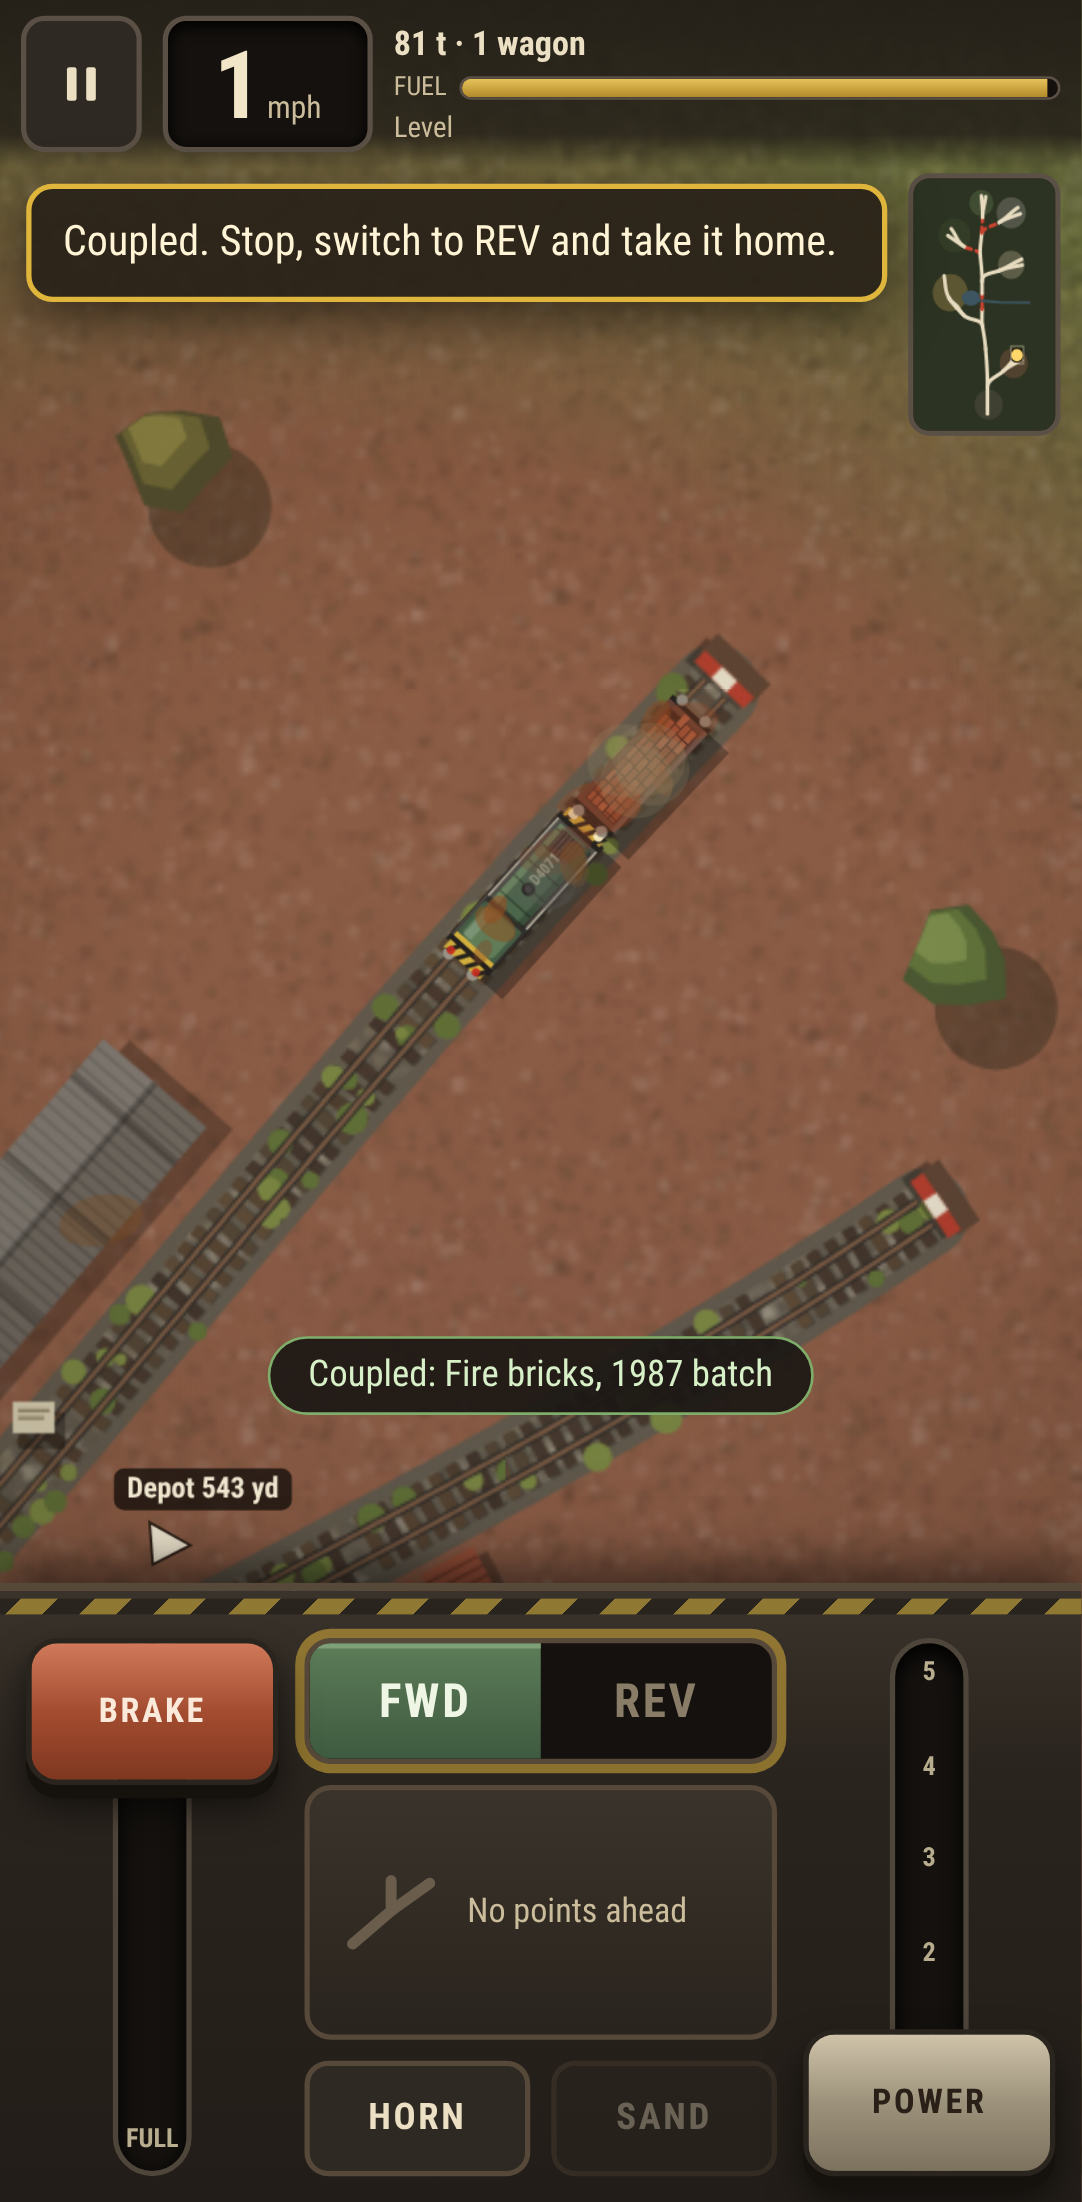
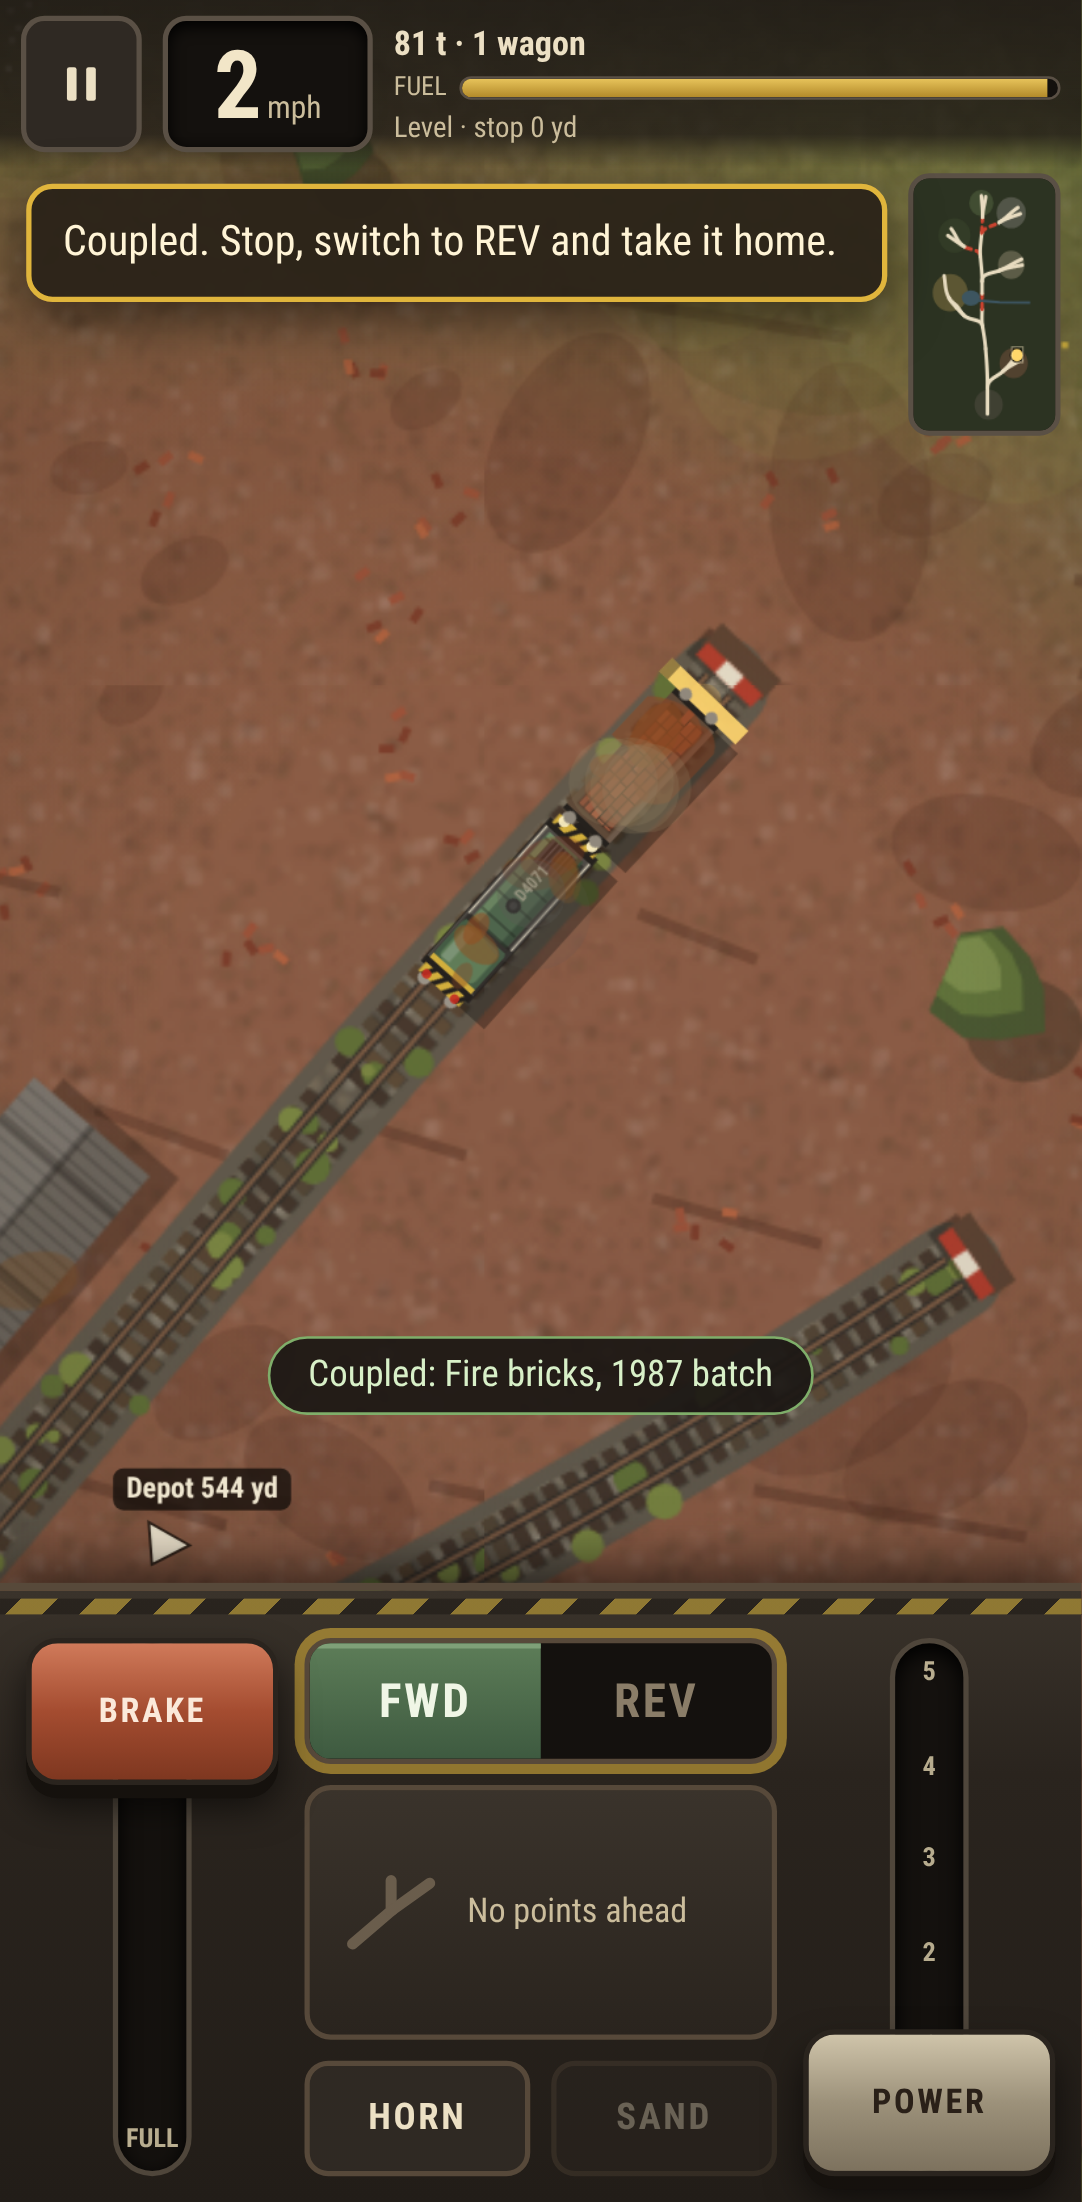
Art: lighter exhaust when labouring, calmer depot ground; driving and bank screenshots; live smoke test

diff --git a/dist/index.html b/dist/index.html
@@ -1018,8 +1018,8 @@ function decals(g,bb,cx,cy){const r=RNG.make(cx*92821+cy*68917+3);
       else if(k<.6){const c=r()<.5?'#e8e0c8':'#e0c040';g.fillStyle=c;for(let j=0;j<7;j++)g.fillRect(x+(r()-.5)*14,y+(r()-.5)*14,1.1,1.1);}
       else if(k<.85){g.strokeStyle='rgba(40,55,25,.5)';g.lineWidth=.8;for(let j=0;j<4;j++){g.beginPath();g.moveTo(x+j*1.5,y);g.lineTo(x+j*1.5+(r()-.5)*3,y-3-r()*3);g.stroke();}}
       else if(!nearTrack(x,y,16)){g.fillStyle='rgba(0,0,0,.25)';g.beginPath();g.arc(x+2,y+2.5,3+sz*3,0,7);g.fill();g.fillStyle=sz<.5?'#4c5e30':'#5a6b36';g.beginPath();g.arc(x,y,3+sz*3,0,7);g.fill();}}
-    else if(ar==='depot'){if(k<.3){g.fillStyle='rgba(15,12,10,.3)';g.beginPath();g.ellipse(x,y,4+sz*12,3+sz*8,r()*3,0,7);g.fill();}
-      else if(k<.5){g.fillStyle='rgba(60,70,75,.55)';g.beginPath();g.ellipse(x,y,5+sz*10,3+sz*6,r()*3,0,7);g.fill();g.fillStyle='rgba(200,210,215,.15)';g.beginPath();g.ellipse(x-2,y-1,2+sz*4,1+sz*2,0,0,7);g.fill();}
+    else if(ar==='depot'){if(k<.2){g.fillStyle='rgba(15,12,10,.22)';g.beginPath();g.ellipse(x,y,3+sz*8,2+sz*5,r()*3,0,7);g.fill();}
+      else if(k<.3){g.fillStyle='rgba(60,70,75,.38)';g.beginPath();g.ellipse(x,y,3+sz*7,2+sz*4,r()*3,0,7);g.fill();g.fillStyle='rgba(200,210,215,.15)';g.beginPath();g.ellipse(x-2,y-1,2+sz*4,1+sz*2,0,0,7);g.fill();}
       else if(k<.8){g.fillStyle=r()<.5?'rgba(25,22,20,.55)':'rgba(110,100,85,.5)';for(let j=0;j<10;j++)g.fillRect(x+(r()-.5)*16,y+(r()-.5)*16,1.2,1.2);}
       else{g.fillStyle='rgba(80,90,40,.45)';g.beginPath();g.arc(x,y,2+sz*4,0,7);g.fill();}}
     else if(ar==='brick'){if(k<.35){g.fillStyle='rgba(70,35,25,.2)';g.beginPath();g.ellipse(x,y,6+sz*18,4+sz*10,r()*3,0,7);g.fill();}
@@ -1172,12 +1172,12 @@ function drawVehicles(t){const S=SIM.S;
       g.restore();}
   }}
 function particles(dt){for(const p of P){if(!p.on)continue;p.life-=dt;if(p.life<=0){p.on=0;continue;}p.x+=p.vx*dt;p.y+=p.vy*dt;const f=p.life/p.max;
-  if(p.type==='smoke'){p.vx*=.985;p.vy*=.985;p.r+=dt*7;g.fillStyle=`rgba(${p.dark?40:90},${p.dark?38:88},${p.dark?36:84},${.42*f})`;g.beginPath();g.arc(p.x,p.y,p.r,0,7);g.fill();}
+  if(p.type==='smoke'){p.vx*=.985;p.vy*=.985;p.r+=dt*9;g.fillStyle=`rgba(${p.dark?40:90},${p.dark?38:88},${p.dark?36:84},${(p.dark?.3:.34)*f})`;g.beginPath();g.arc(p.x,p.y,p.r,0,7);g.fill();}
   else if(p.type==='spark'){g.fillStyle=`rgba(255,${180+Math.random()*70|0},90,${f})`;g.fillRect(p.x,p.y,1.2,1.2);}
   else if(p.type==='dust'){p.r+=dt*12;g.fillStyle=`rgba(150,130,100,${.35*f})`;g.beginPath();g.arc(p.x,p.y,p.r,0,7);g.fill();}
   else if(p.type==='sand'){g.fillStyle=`rgba(210,180,120,${.6*f})`;g.fillRect(p.x,p.y,1.5,1.5);}}}
 function feed(dt){const S=SIM.S;if(!S.train)return;const L=S.loco,v=Math.abs(S.train.v);const fx=Math.cos(L.h)*(L.face===1?-1:1),fy=Math.sin(L.h)*(L.face===1?-1:1);
-  const ex=L.x-fx*(L.len/2-19),ey=L.y-fy*(L.len/2-19);GAME.smokeAcc=(GAME.smokeAcc||0)+dt*(2.5+S.ctl.thr*5+(GAME.puff||0)*40);
+  const ex=L.x-fx*(L.len/2-19),ey=L.y-fy*(L.len/2-19);GAME.smokeAcc=(GAME.smokeAcc||0)+dt*(2+S.ctl.thr*3.4+(GAME.puff||0)*40)*(Math.abs(S.train.v)<4?.6:1);
   while(GAME.smokeAcc>1){GAME.smokeAcc--;const wv=S.train.v;const mvx=-(Math.cos(L.h))*wv*.15,mvy=-(Math.sin(L.h))*wv*.15;const p=emit('smoke',ex,ey,mvx*0+8+Math.random()*6,-6-Math.random()*6+0,1.6+S.ctl.thr*.35,2+S.ctl.thr*.4);P[(pi+P.length-1)%P.length].dark=(GAME.puff||0)>0||S.ctl.thr>=4;}
   if(GAME.puff>0)GAME.puff-=dt;
   if(L.slip>.3){for(let i=0;i<2;i++)emit('spark',L.x+(Math.random()-.5)*L.len*.6,L.y+(Math.random()-.5)*10,(Math.random()-.5)*40,(Math.random()-.5)*40,.25,1);}

diff --git a/js/render.js b/js/render.js
@@ -62,12 +62,12 @@ function drawVehicles(t){const S=SIM.S;
       g.restore();}
   }}
 function particles(dt){for(const p of P){if(!p.on)continue;p.life-=dt;if(p.life<=0){p.on=0;continue;}p.x+=p.vx*dt;p.y+=p.vy*dt;const f=p.life/p.max;
-  if(p.type==='smoke'){p.vx*=.985;p.vy*=.985;p.r+=dt*7;g.fillStyle=`rgba(${p.dark?40:90},${p.dark?38:88},${p.dark?36:84},${.42*f})`;g.beginPath();g.arc(p.x,p.y,p.r,0,7);g.fill();}
+  if(p.type==='smoke'){p.vx*=.985;p.vy*=.985;p.r+=dt*9;g.fillStyle=`rgba(${p.dark?40:90},${p.dark?38:88},${p.dark?36:84},${(p.dark?.3:.34)*f})`;g.beginPath();g.arc(p.x,p.y,p.r,0,7);g.fill();}
   else if(p.type==='spark'){g.fillStyle=`rgba(255,${180+Math.random()*70|0},90,${f})`;g.fillRect(p.x,p.y,1.2,1.2);}
   else if(p.type==='dust'){p.r+=dt*12;g.fillStyle=`rgba(150,130,100,${.35*f})`;g.beginPath();g.arc(p.x,p.y,p.r,0,7);g.fill();}
   else if(p.type==='sand'){g.fillStyle=`rgba(210,180,120,${.6*f})`;g.fillRect(p.x,p.y,1.5,1.5);}}}
 function feed(dt){const S=SIM.S;if(!S.train)return;const L=S.loco,v=Math.abs(S.train.v);const fx=Math.cos(L.h)*(L.face===1?-1:1),fy=Math.sin(L.h)*(L.face===1?-1:1);
-  const ex=L.x-fx*(L.len/2-19),ey=L.y-fy*(L.len/2-19);GAME.smokeAcc=(GAME.smokeAcc||0)+dt*(2.5+S.ctl.thr*5+(GAME.puff||0)*40);
+  const ex=L.x-fx*(L.len/2-19),ey=L.y-fy*(L.len/2-19);GAME.smokeAcc=(GAME.smokeAcc||0)+dt*(2+S.ctl.thr*3.4+(GAME.puff||0)*40)*(Math.abs(S.train.v)<4?.6:1);
   while(GAME.smokeAcc>1){GAME.smokeAcc--;const wv=S.train.v;const mvx=-(Math.cos(L.h))*wv*.15,mvy=-(Math.sin(L.h))*wv*.15;const p=emit('smoke',ex,ey,mvx*0+8+Math.random()*6,-6-Math.random()*6+0,1.6+S.ctl.thr*.35,2+S.ctl.thr*.4);P[(pi+P.length-1)%P.length].dark=(GAME.puff||0)>0||S.ctl.thr>=4;}
   if(GAME.puff>0)GAME.puff-=dt;
   if(L.slip>.3){for(let i=0;i<2;i++)emit('spark',L.x+(Math.random()-.5)*L.len*.6,L.y+(Math.random()-.5)*10,(Math.random()-.5)*40,(Math.random()-.5)*40,.25,1);}

diff --git a/js/art.js b/js/art.js
@@ -283,8 +283,8 @@ function decals(g,bb,cx,cy){const r=RNG.make(cx*92821+cy*68917+3);
       else if(k<.6){const c=r()<.5?'#e8e0c8':'#e0c040';g.fillStyle=c;for(let j=0;j<7;j++)g.fillRect(x+(r()-.5)*14,y+(r()-.5)*14,1.1,1.1);}
       else if(k<.85){g.strokeStyle='rgba(40,55,25,.5)';g.lineWidth=.8;for(let j=0;j<4;j++){g.beginPath();g.moveTo(x+j*1.5,y);g.lineTo(x+j*1.5+(r()-.5)*3,y-3-r()*3);g.stroke();}}
       else if(!nearTrack(x,y,16)){g.fillStyle='rgba(0,0,0,.25)';g.beginPath();g.arc(x+2,y+2.5,3+sz*3,0,7);g.fill();g.fillStyle=sz<.5?'#4c5e30':'#5a6b36';g.beginPath();g.arc(x,y,3+sz*3,0,7);g.fill();}}
-    else if(ar==='depot'){if(k<.3){g.fillStyle='rgba(15,12,10,.3)';g.beginPath();g.ellipse(x,y,4+sz*12,3+sz*8,r()*3,0,7);g.fill();}
-      else if(k<.5){g.fillStyle='rgba(60,70,75,.55)';g.beginPath();g.ellipse(x,y,5+sz*10,3+sz*6,r()*3,0,7);g.fill();g.fillStyle='rgba(200,210,215,.15)';g.beginPath();g.ellipse(x-2,y-1,2+sz*4,1+sz*2,0,0,7);g.fill();}
+    else if(ar==='depot'){if(k<.2){g.fillStyle='rgba(15,12,10,.22)';g.beginPath();g.ellipse(x,y,3+sz*8,2+sz*5,r()*3,0,7);g.fill();}
+      else if(k<.3){g.fillStyle='rgba(60,70,75,.38)';g.beginPath();g.ellipse(x,y,3+sz*7,2+sz*4,r()*3,0,7);g.fill();g.fillStyle='rgba(200,210,215,.15)';g.beginPath();g.ellipse(x-2,y-1,2+sz*4,1+sz*2,0,0,7);g.fill();}
       else if(k<.8){g.fillStyle=r()<.5?'rgba(25,22,20,.55)':'rgba(110,100,85,.5)';for(let j=0;j<10;j++)g.fillRect(x+(r()-.5)*16,y+(r()-.5)*16,1.2,1.2);}
       else{g.fillStyle='rgba(80,90,40,.45)';g.beginPath();g.arc(x,y,2+sz*4,0,7);g.fill();}}
     else if(ar==='brick'){if(k<.35){g.fillStyle='rgba(70,35,25,.2)';g.beginPath();g.ellipse(x,y,6+sz*18,4+sz*10,r()*3,0,7);g.fill();}

diff --git a/sw.js b/sw.js
@@ -1,5 +1,5 @@
 // Dead Freight service worker: network first so updates arrive straight away, cache as the offline fallback.
-const CACHE='deadfreight-v1';
+const CACHE='deadfreight-v2';
 const FILES=['./','index.html','css/style.css','manifest.webmanifest','icon.png','icon-192.png',
  'js/rng.js','js/track.js','js/map.js','js/train.js','js/data.js','js/sim.js','js/art.js','js/render.js','js/audio.js','js/save.js','js/input.js','js/ui.js','js/game.js'];
 self.addEventListener('install',e=>{e.waitUntil(caches.open(CACHE).then(c=>c.addAll(FILES)).then(()=>self.skipWaiting()));});

diff --git a/tests/shots.py b/tests/shots.py
@@ -1,0 +1,15 @@
+# Extra screenshots: driving out on the line, and a long heavy train on Mercy bank.
+from drive import *
+async def main():
+  async with async_playwright() as p:
+    b,c,pg,errs=await page(p);await fixture(pg);tc=await Touch(pg).init();dr=Driver(pg,tc);E=pg.evaluate
+    await E("FIX.shift({up:{power:2},open:['viaduct'],lots:[]})");await pg.wait_for_timeout(300)
+    await E("FIX.train('V1','J3',10,[FIX.cargo('Fire bricks'),FIX.cargo('Seed barley'),FIX.cargo('Cobalt')],{})");await pg.wait_for_timeout(300)
+    await dr.set_brk(0);await dr.set_thr(4);await pg.wait_for_timeout(9000);await dr.set_thr(3);await pg.wait_for_timeout(1500)
+    await pg.screenshot(path=str(SHOTS/'driving.png'))
+    await E("FIX.shift({up:{},open:[],lots:[]})");await pg.wait_for_timeout(300)
+    await E("FIX.train('J1','K1',60,[%s],{})"%','.join(["FIX.cargo('Weighbridge')"]*3+["FIX.cargo('Fire bricks')"]*4));await pg.wait_for_timeout(300)
+    await dr.set_brk(0);await dr.set_thr(4);await pg.wait_for_timeout(5000)
+    await pg.screenshot(path=str(SHOTS/'heavy_train_bank.png'))
+    print(errs);await b.close()
+asyncio.run(main())

diff --git a/tests/test_live.py b/tests/test_live.py
@@ -1,0 +1,15 @@
+# Smoke test against the deployed site: loads, service worker installs, a shift starts and the loco drives by touch.
+from drive import *
+URL=sys.argv[1] if len(sys.argv)>1 else 'https://zwitched.github.io/dead-freight/'
+async def main():
+  t=T('live')
+  async with async_playwright() as p:
+    b,c,pg,errs=await page(p,url=URL);tc=await Touch(pg).init();dr=Driver(pg,tc)
+    t.chk('live site shows the title',await pg.is_visible('#bStart'))
+    await tc.tapel('#bStart');await pg.wait_for_timeout(200);await tc.tapel('#bGo');await pg.wait_for_timeout(600)
+    await dr.set_brk(0);await dr.set_thr(2);await pg.wait_for_timeout(2000)
+    t.chk('live: the loco drives',(await st(pg))['V']>2)
+    t.chk('live: service worker registered',await pg.evaluate("navigator.serviceWorker.getRegistration().then(r=>!!r)"))
+    await pg.screenshot(path='/tmp/live.png');await b.close()
+  t.done(errs)
+asyncio.run(main())
